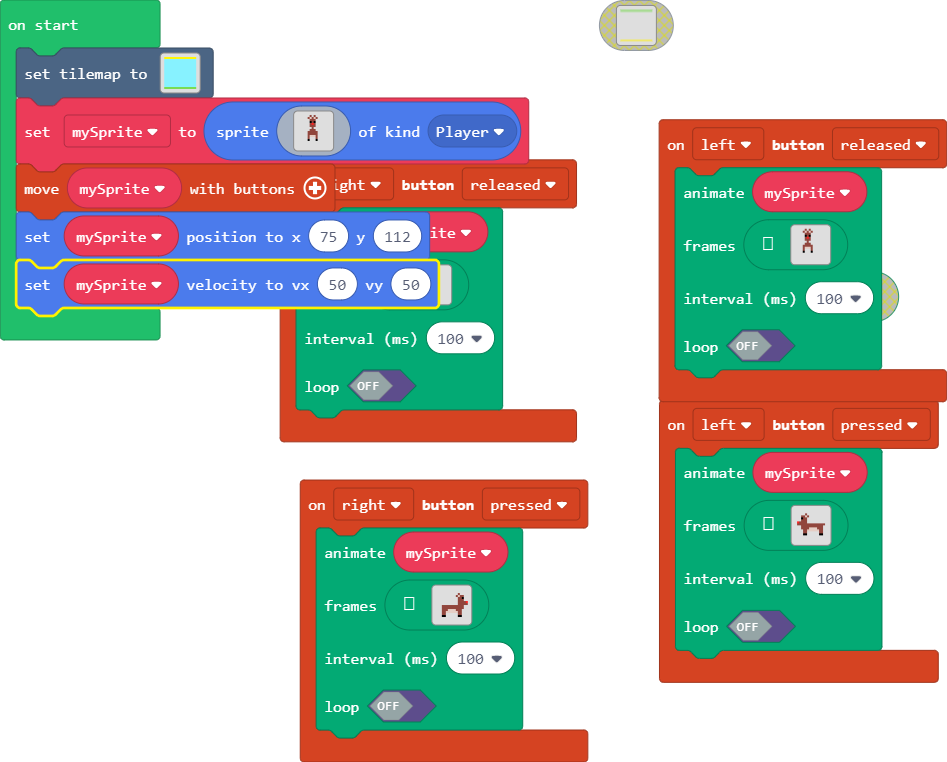
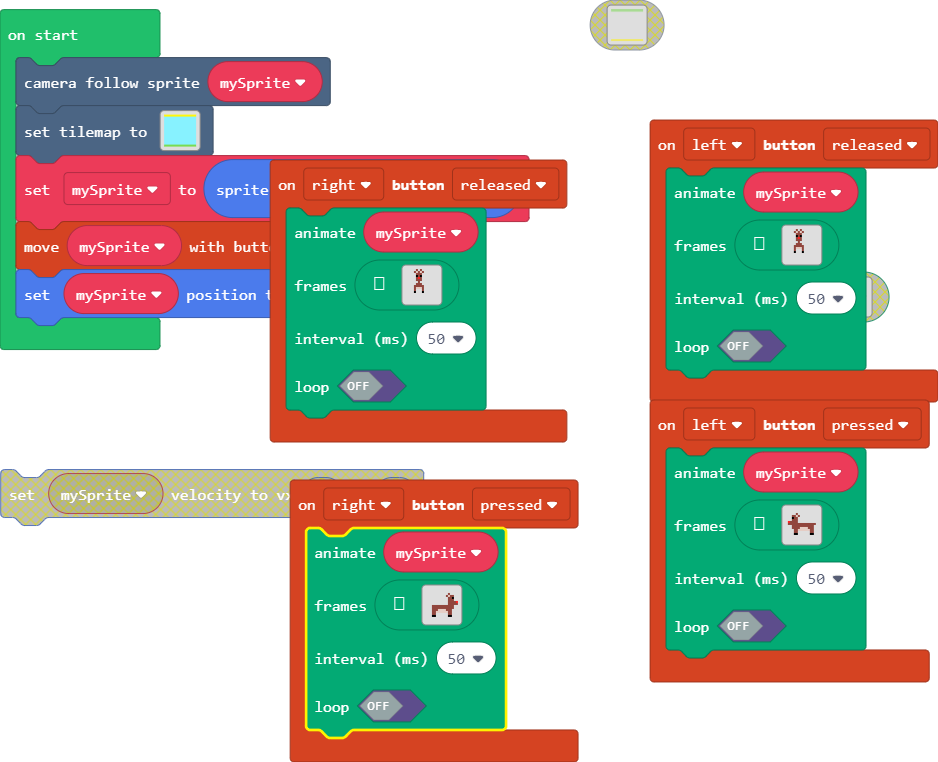
Update main.blocks, main.ts

diff --git a/main.ts b/main.ts
@@ -97,7 +97,7 @@ controller.left.onEvent(ControllerButtonEvent.Pressed, function () {
 . . . . . . . . . . . . . . . . 
 . . . . . . . . . . . . . . . . 
 `],
-    100,
+    50,
     false
     )
 })
@@ -122,7 +122,7 @@ controller.left.onEvent(ControllerButtonEvent.Released, function () {
 . . . . . . . . . . . . . . . . 
 . . . . . . . . . . . . . . . . 
 `],
-    100,
+    50,
     false
     )
 })
@@ -147,7 +147,7 @@ controller.right.onEvent(ControllerButtonEvent.Pressed, function () {
 . . . . . . . . . . . . . . . . 
 . . . . . . . . . . . . . . . . 
 `],
-    100,
+    50,
     false
     )
 })
@@ -172,11 +172,12 @@ controller.right.onEvent(ControllerButtonEvent.Released, function () {
 . . . . . . . . . . . . . . . . 
 . . . . . . . . . . . . . . . . 
 `],
-    100,
+    50,
     false
     )
 })
 let mySprite: Sprite = null
+scene.cameraFollowSprite(mySprite)
 tiles.setTilemap(tiles.createTilemap(
             hex`1000100003030303030303030303030303030303010101010101010101010101010101010101010101010101010101010101010101010101010101010101010101010101010101010101010101010101010101010101010101010101010101010101010101010101010101010101010101010101010101010101010101010101010101010101010101010101010101010101010101010101010101010101010101010101010101010101010101010101010101010101010101010101010101010101010101010101010101010101010101010101010101010101010101010101010101010101010101010101010101010101010102020202020202020202020202020202`,
             img`
@@ -220,4 +221,3 @@ mySprite = sprites.create(img`
 `, SpriteKind.Player)
 controller.moveSprite(mySprite)
 mySprite.setPosition(75, 112)
-mySprite.setVelocity(50, 50)
